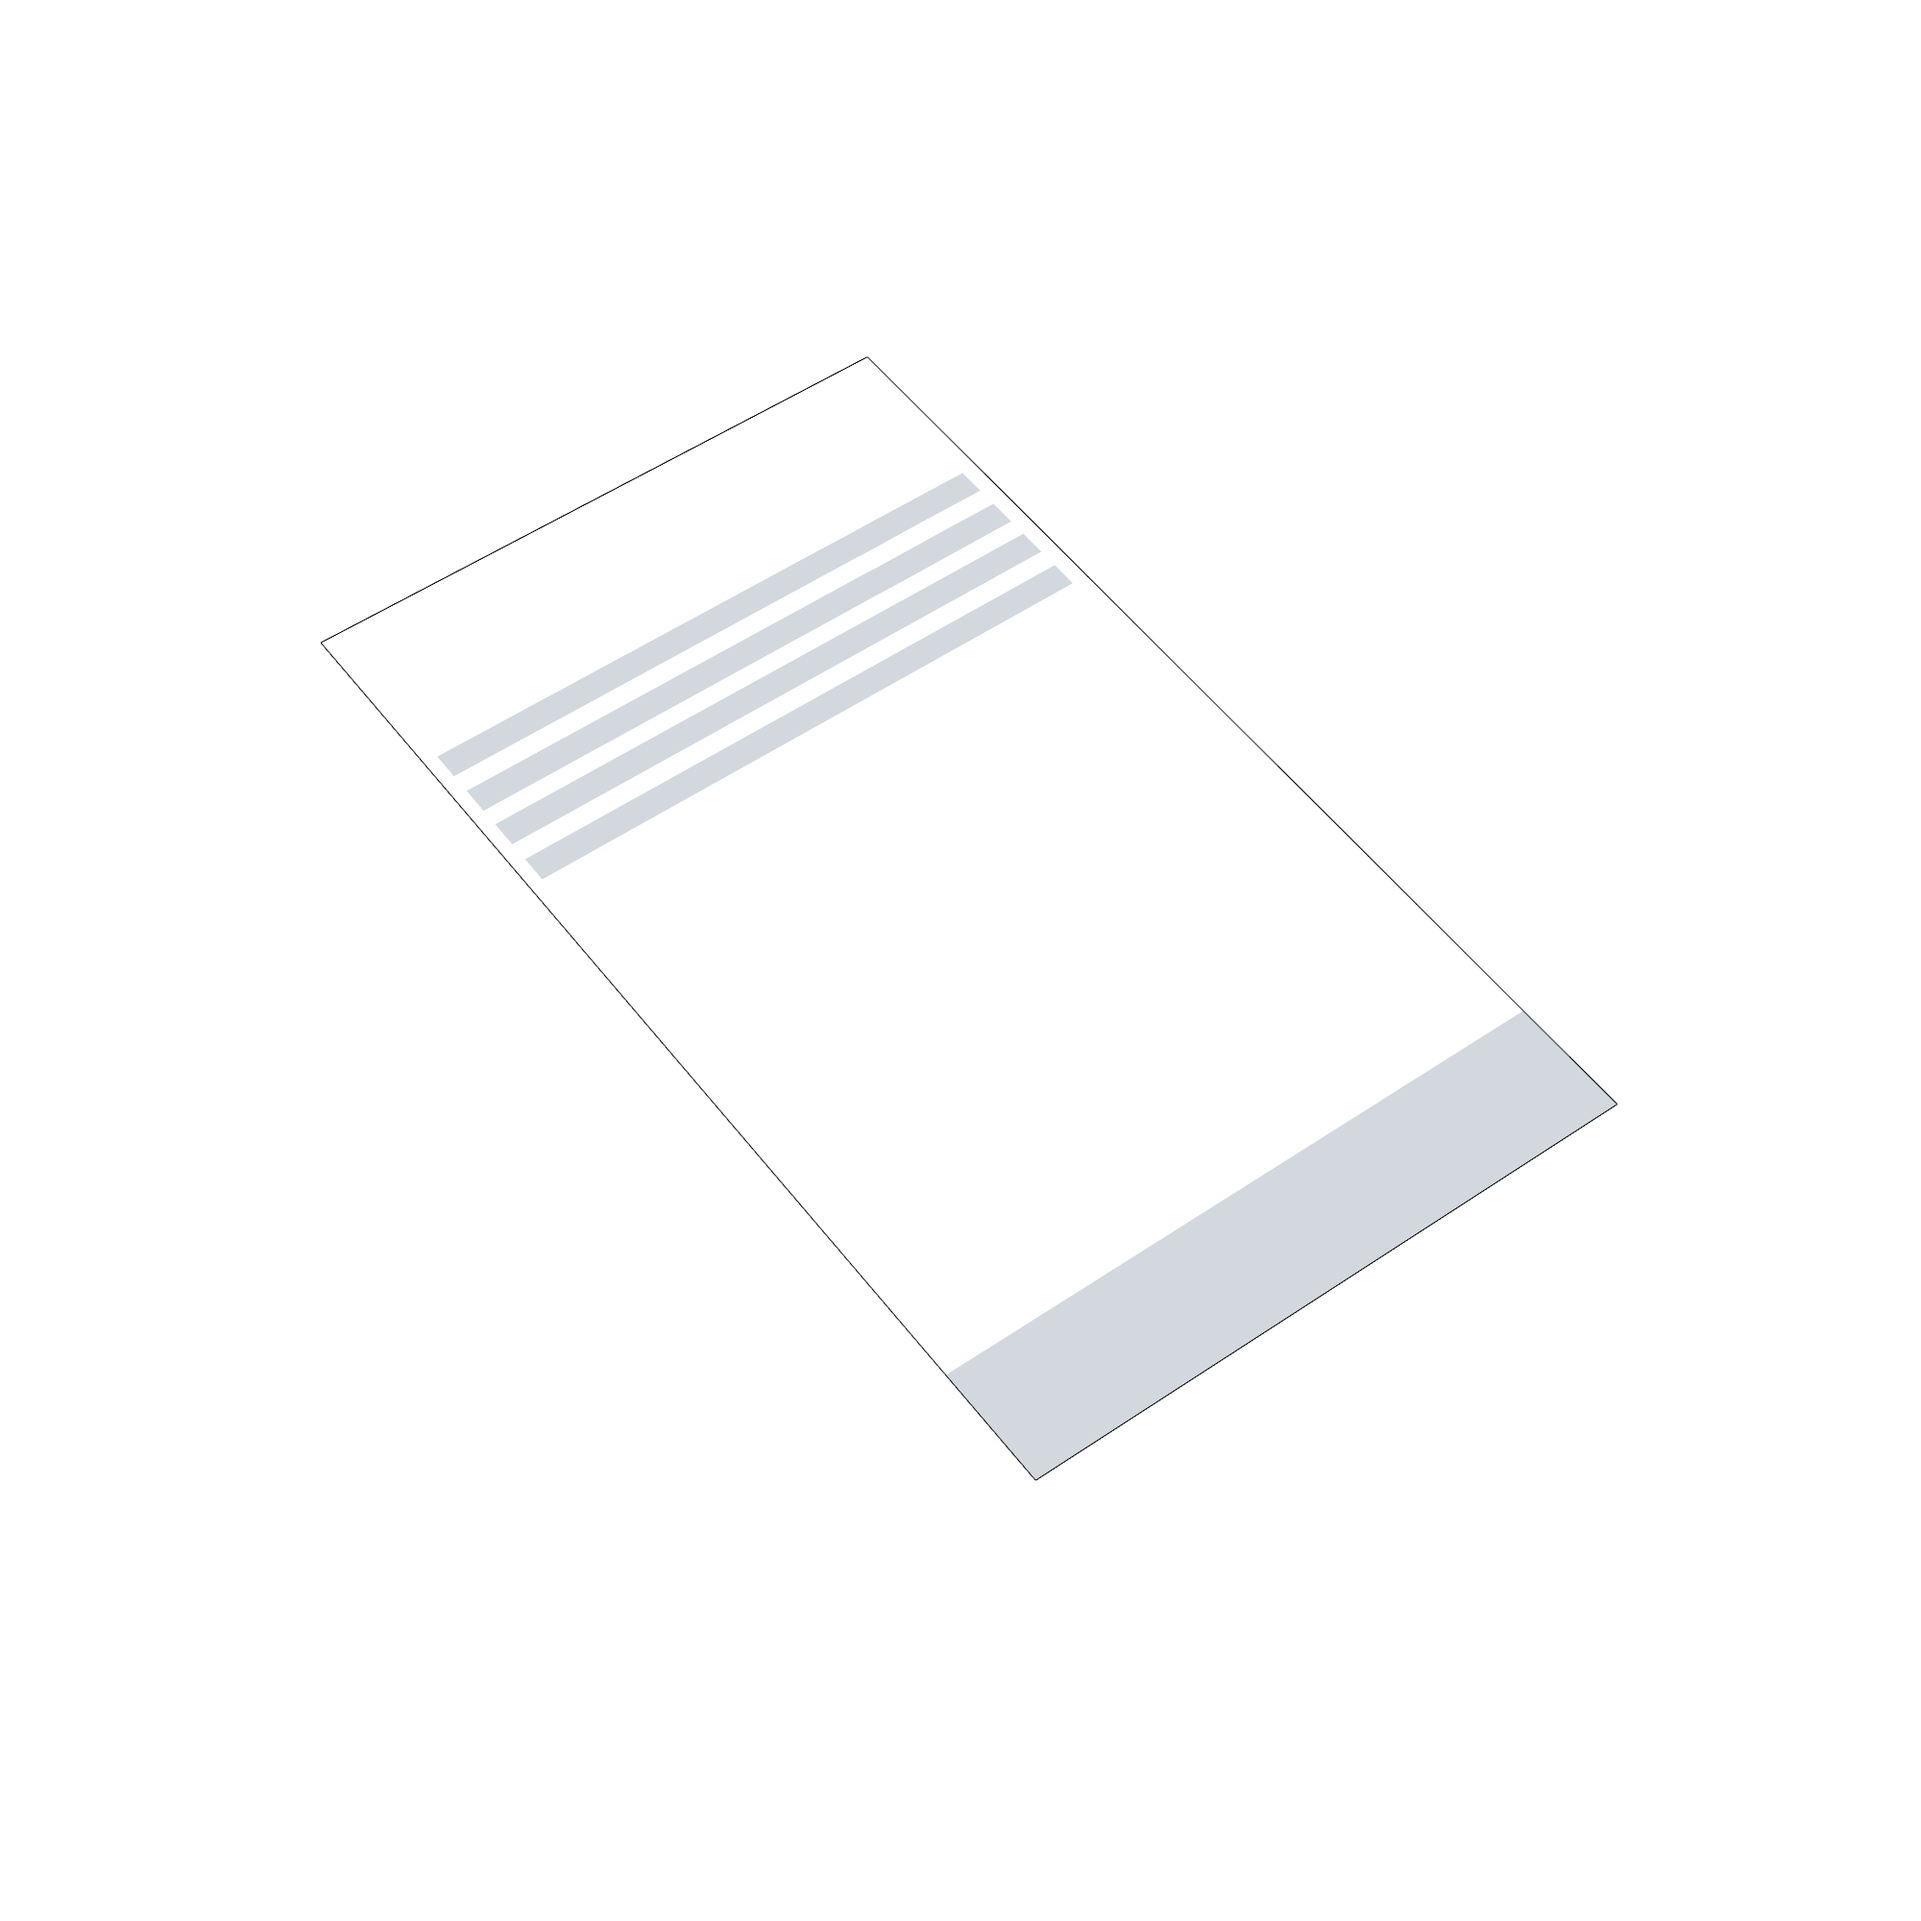
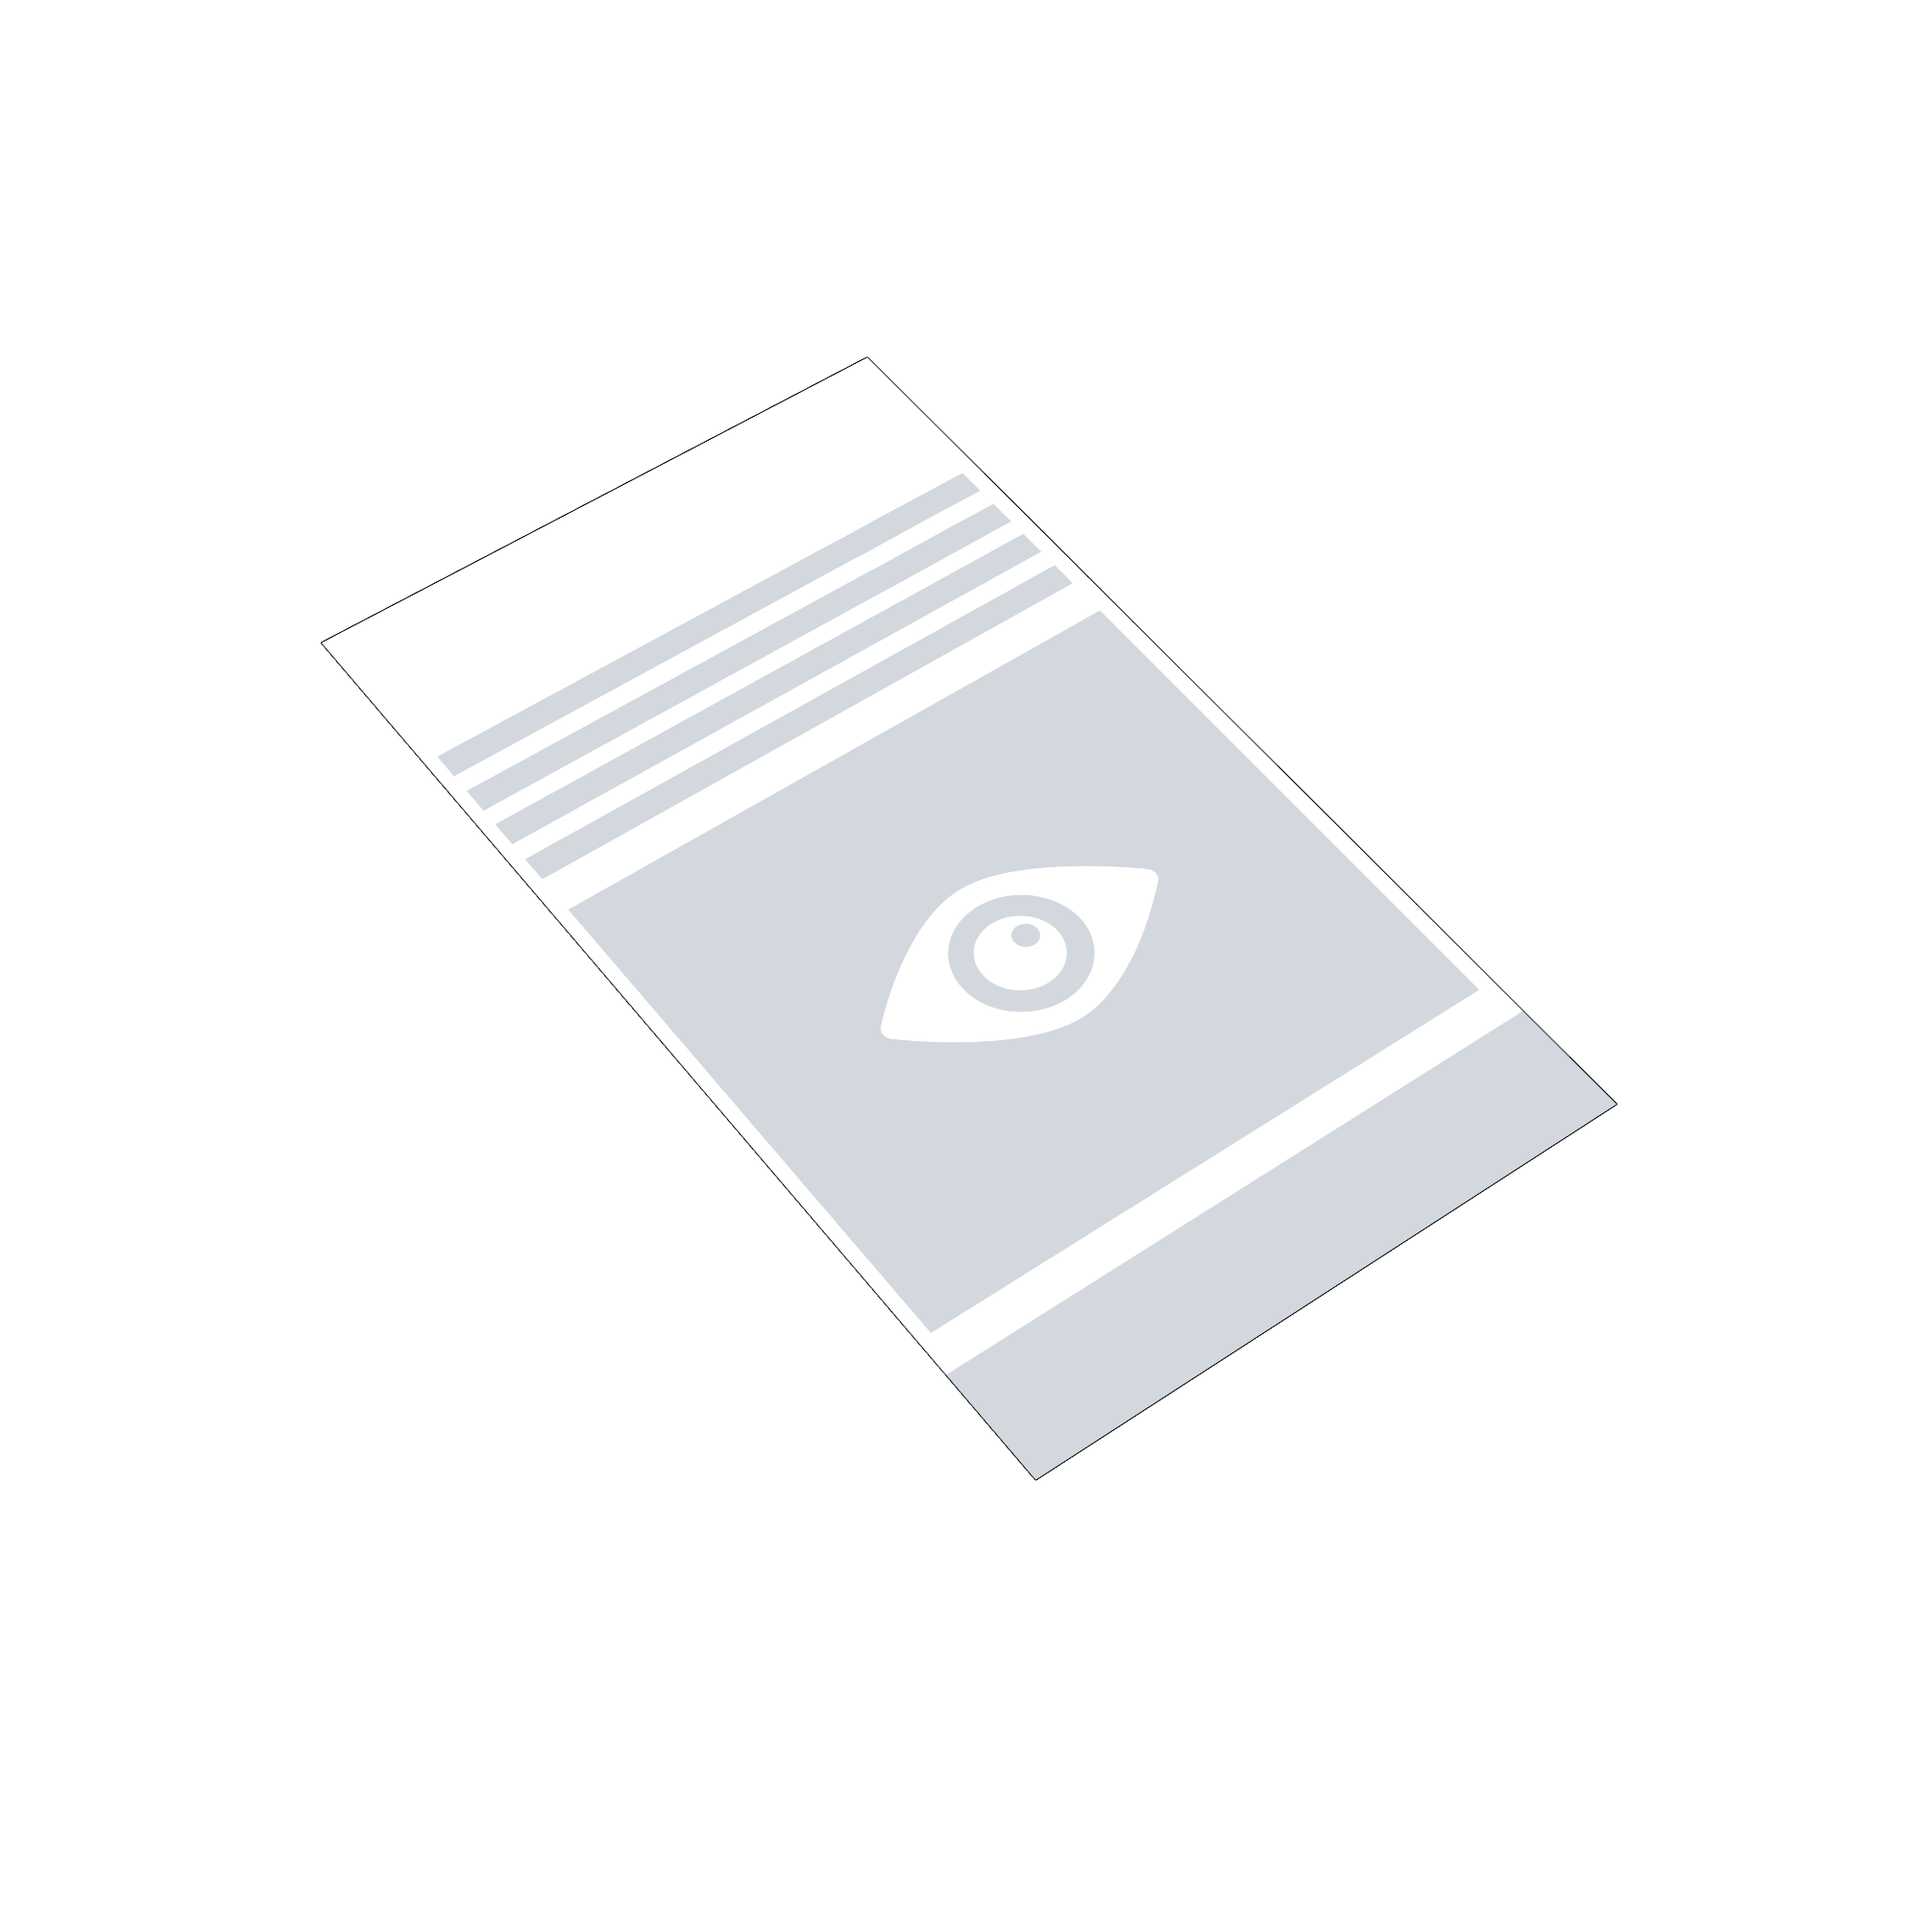
android eye animation

Changed region(s): [[0.279, 0.31, 0.775, 0.713]]

diff --git a/index2.html b/index2.html
@@ -61,10 +61,10 @@
         left: 45.1%;
         top: 437px;
         display: none;
-        transition: all 1s ease-in-out;
-         -webkit-transition: all 1s ease-in-out; /** Chrome & Safari **/
-         -moz-transition: all 1s ease-in-out; /** Firefox **/
-         -o-transition: all 1s ease-in-out; /** Opera **/
+        transition: all .7s ease-in-out;
+         -webkit-transition: all .7s ease-in-out; /** Chrome & Safari **/
+         -moz-transition: all .7s ease-in-out; /** Firefox **/
+         -o-transition: all .7s ease-in-out; /** Opera **/
          z-index: 2;
       }
       .device-band3 {
@@ -110,8 +110,28 @@
         margin-left: -461px;
         top: -79px;
         z-index: 1;
-/*        display: none;*/
-/*        opacity: 0.5;*/
+        display: none;
+        transform: translate(-100px, 63px);
+        transition: all 1s ease-in-out;
+         -webkit-transition: all .6s ease-in-out; /** Chrome & Safari **/
+         -moz-transition: all .6s ease-in-out; /** Firefox **/
+         -o-transition: all .6s ease-in-out; /** Opera **/
+        opacity: 0.7;
+      }
+      .device-eye {
+        width: 905px;
+        position: absolute;
+        left: 50%;
+        margin-left: -461px;
+        top: -79px;
+        z-index: 1;
+        display: none;
+/*        transform: translate(-100px, 63px);*/
+        transition: all 1s ease-in-out;
+         -webkit-transition: all .6s ease-in-out; /** Chrome & Safari **/
+         -moz-transition: all .6s ease-in-out; /** Firefox **/
+         -o-transition: all .6s ease-in-out; /** Opera **/
+        opacity: 0.7;
       }
       .blue-cover-text {
         position: absolute;
@@ -223,7 +243,9 @@
             $deviceBand5 = $('.device-band5'),
             $deviceBlueCover = $('.device-gray-cover'),
             $blueCoverText = $('.blue-cover-text'),
-            $deviceAppHeader = $('.device-app-header');
+            $deviceAppHeader = $('.device-app-header'),
+            $deviceFeedsCover = $('.device-feeds-cover'),
+            $deviceEye = $('.device-eye');
         
         //Pause before the start of all the animations
         setTimeout(function() {
@@ -301,7 +323,6 @@
                     // }
                     $deviceBand5.css({'top': '470px'});
                     $deviceBand5.fadeIn(100, function() {
-                      // $deviceBand5.css({'top': '470px'});
                       $deviceBand5.css({'-webkit-transform': 'rotate(-32deg) skew(12deg,1deg) scale(.1,1) translate(-1370px,0px)', 'background-color': 'transparent'});
                     });
                     $deviceBand4.css({'top': '459px'});
@@ -310,26 +331,29 @@
                     });
                     $deviceBand3.css({'top': '448px'});
                     $deviceBand3.fadeIn(100, function() {
-                      // $deviceBand2.animate({'width': '277px'})
                       $deviceBand3.css({'-webkit-transform': 'rotate(-32deg) skew(12deg,1deg) scale(.1,1) translate(-1370px,0px)', 'background-color': 'transparent'});
                     });
                     $deviceBand2.css({'top': '437px'});
                     $deviceBand2.fadeIn(100, function() {
-                      // $deviceBand2.animate({'width': '277px'})
                       $deviceBand2.css({'-webkit-transform': 'rotate(-32deg) skew(12deg,4deg) scale(.43,1) translate(-154px,-332px)', 'background-color': '#00BBFF'});
                       
                       //after band2 finishes animating to the top, have it slide to the right
                       setTimeout(function() {
+                        $deviceFeedsCover.fadeIn().css({'-webkit-transform': 'translate(0px, 0px)', 'opacity': '1'});
                         $deviceBand2.css({'-webkit-transform': 'rotate(-32deg) skew(12deg,4deg) scale(.43,1) translate(187px,-332px)'});
                         
                         setTimeout(function() {
                           // $deviceBand1.fadeOut();
                           // $deviceBand2.fadeOut();
                           // $deviceAppHeader.fadeOut();
-                        }, 1300);
+                          $deviceFeedsCover.fadeOut(300, function() {
+                            $deviceEye.fadeIn().css({'-webkit-transform': 'translate(0px, -120px)'});
+                          });
+                          
+                        }, 900);
                         
                         
-                      },1500);
+                      },1000);
                     });
 
 
@@ -363,6 +387,7 @@
       <img class="device-gray-cover" src="android_gray_cover.png">
       <img class="device-blue-cards" src="android_blue_cards.png">
       <img class="device-feeds-cover" src="android_feeds_cover.png">
+      <img class="device-eye" src="android_eye.png">
       <div class="blue-cover-text">hello</div>
       <div class="device-app-header">feed&nbsp;&nbsp;&nbsp;&nbsp;&nbsp;&nbsp;&nbsp;&nbsp;&nbsp;&nbsp;&nbsp;&nbsp; gates</div>
       
